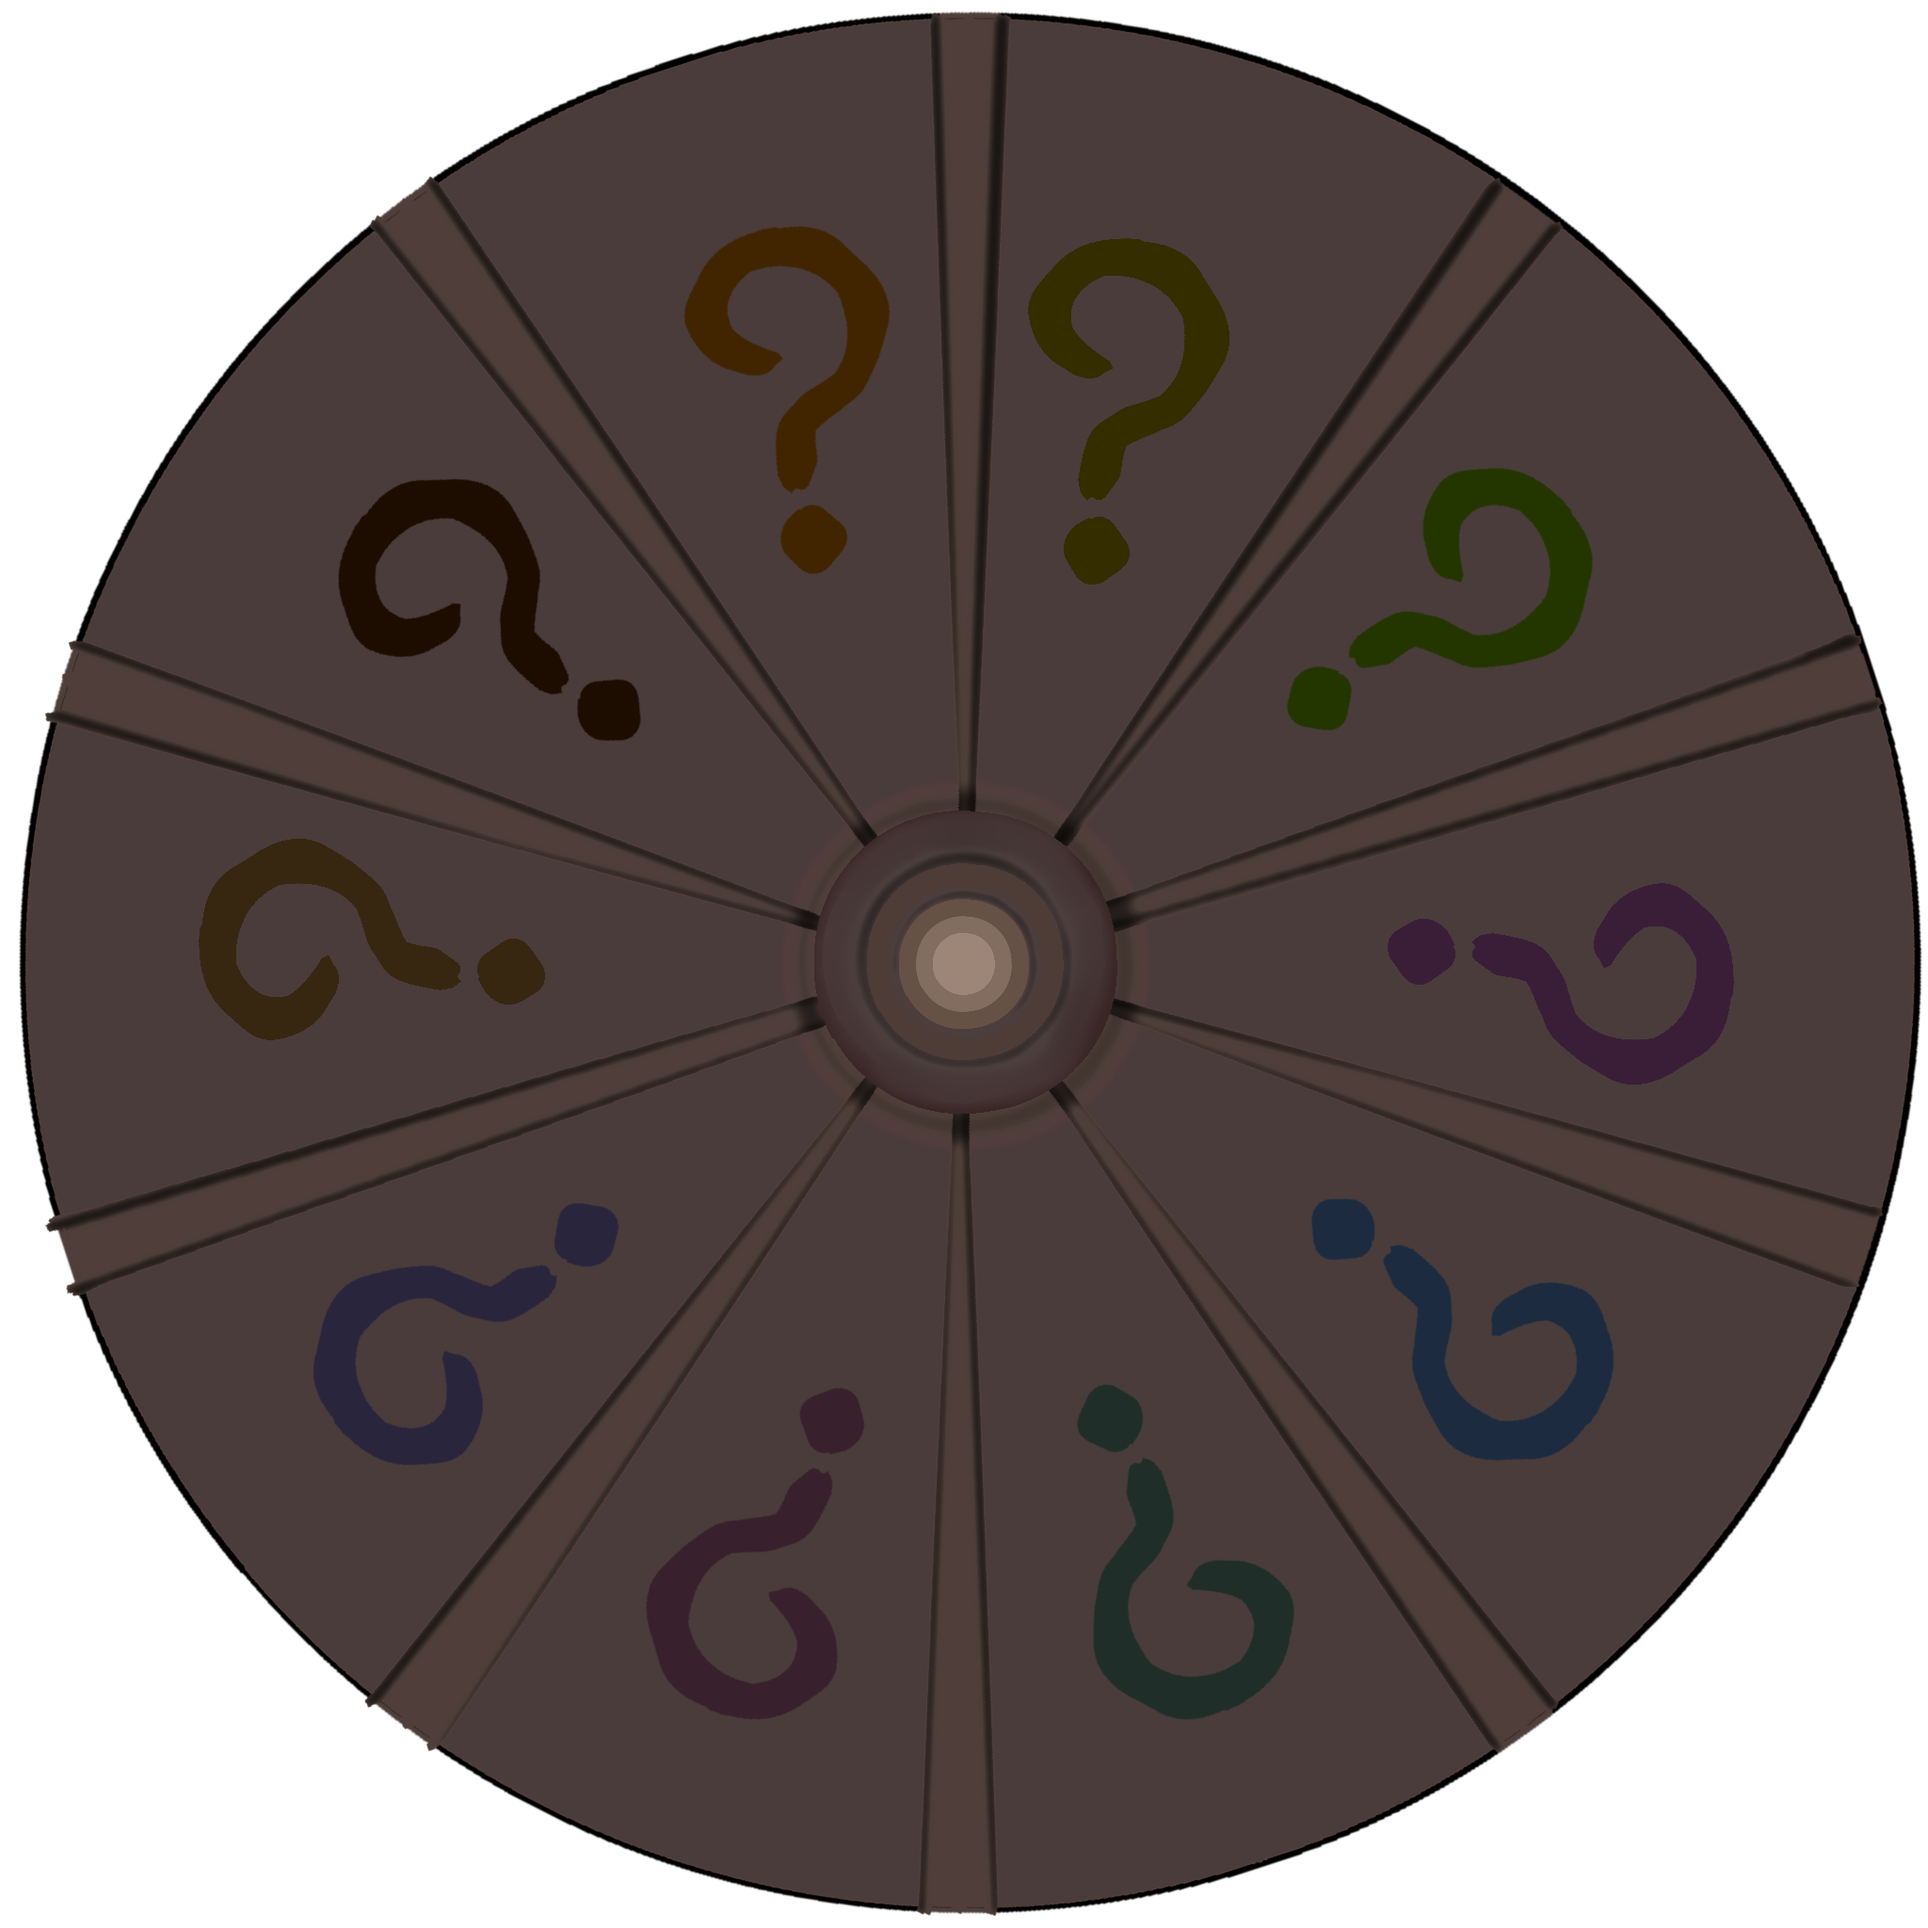
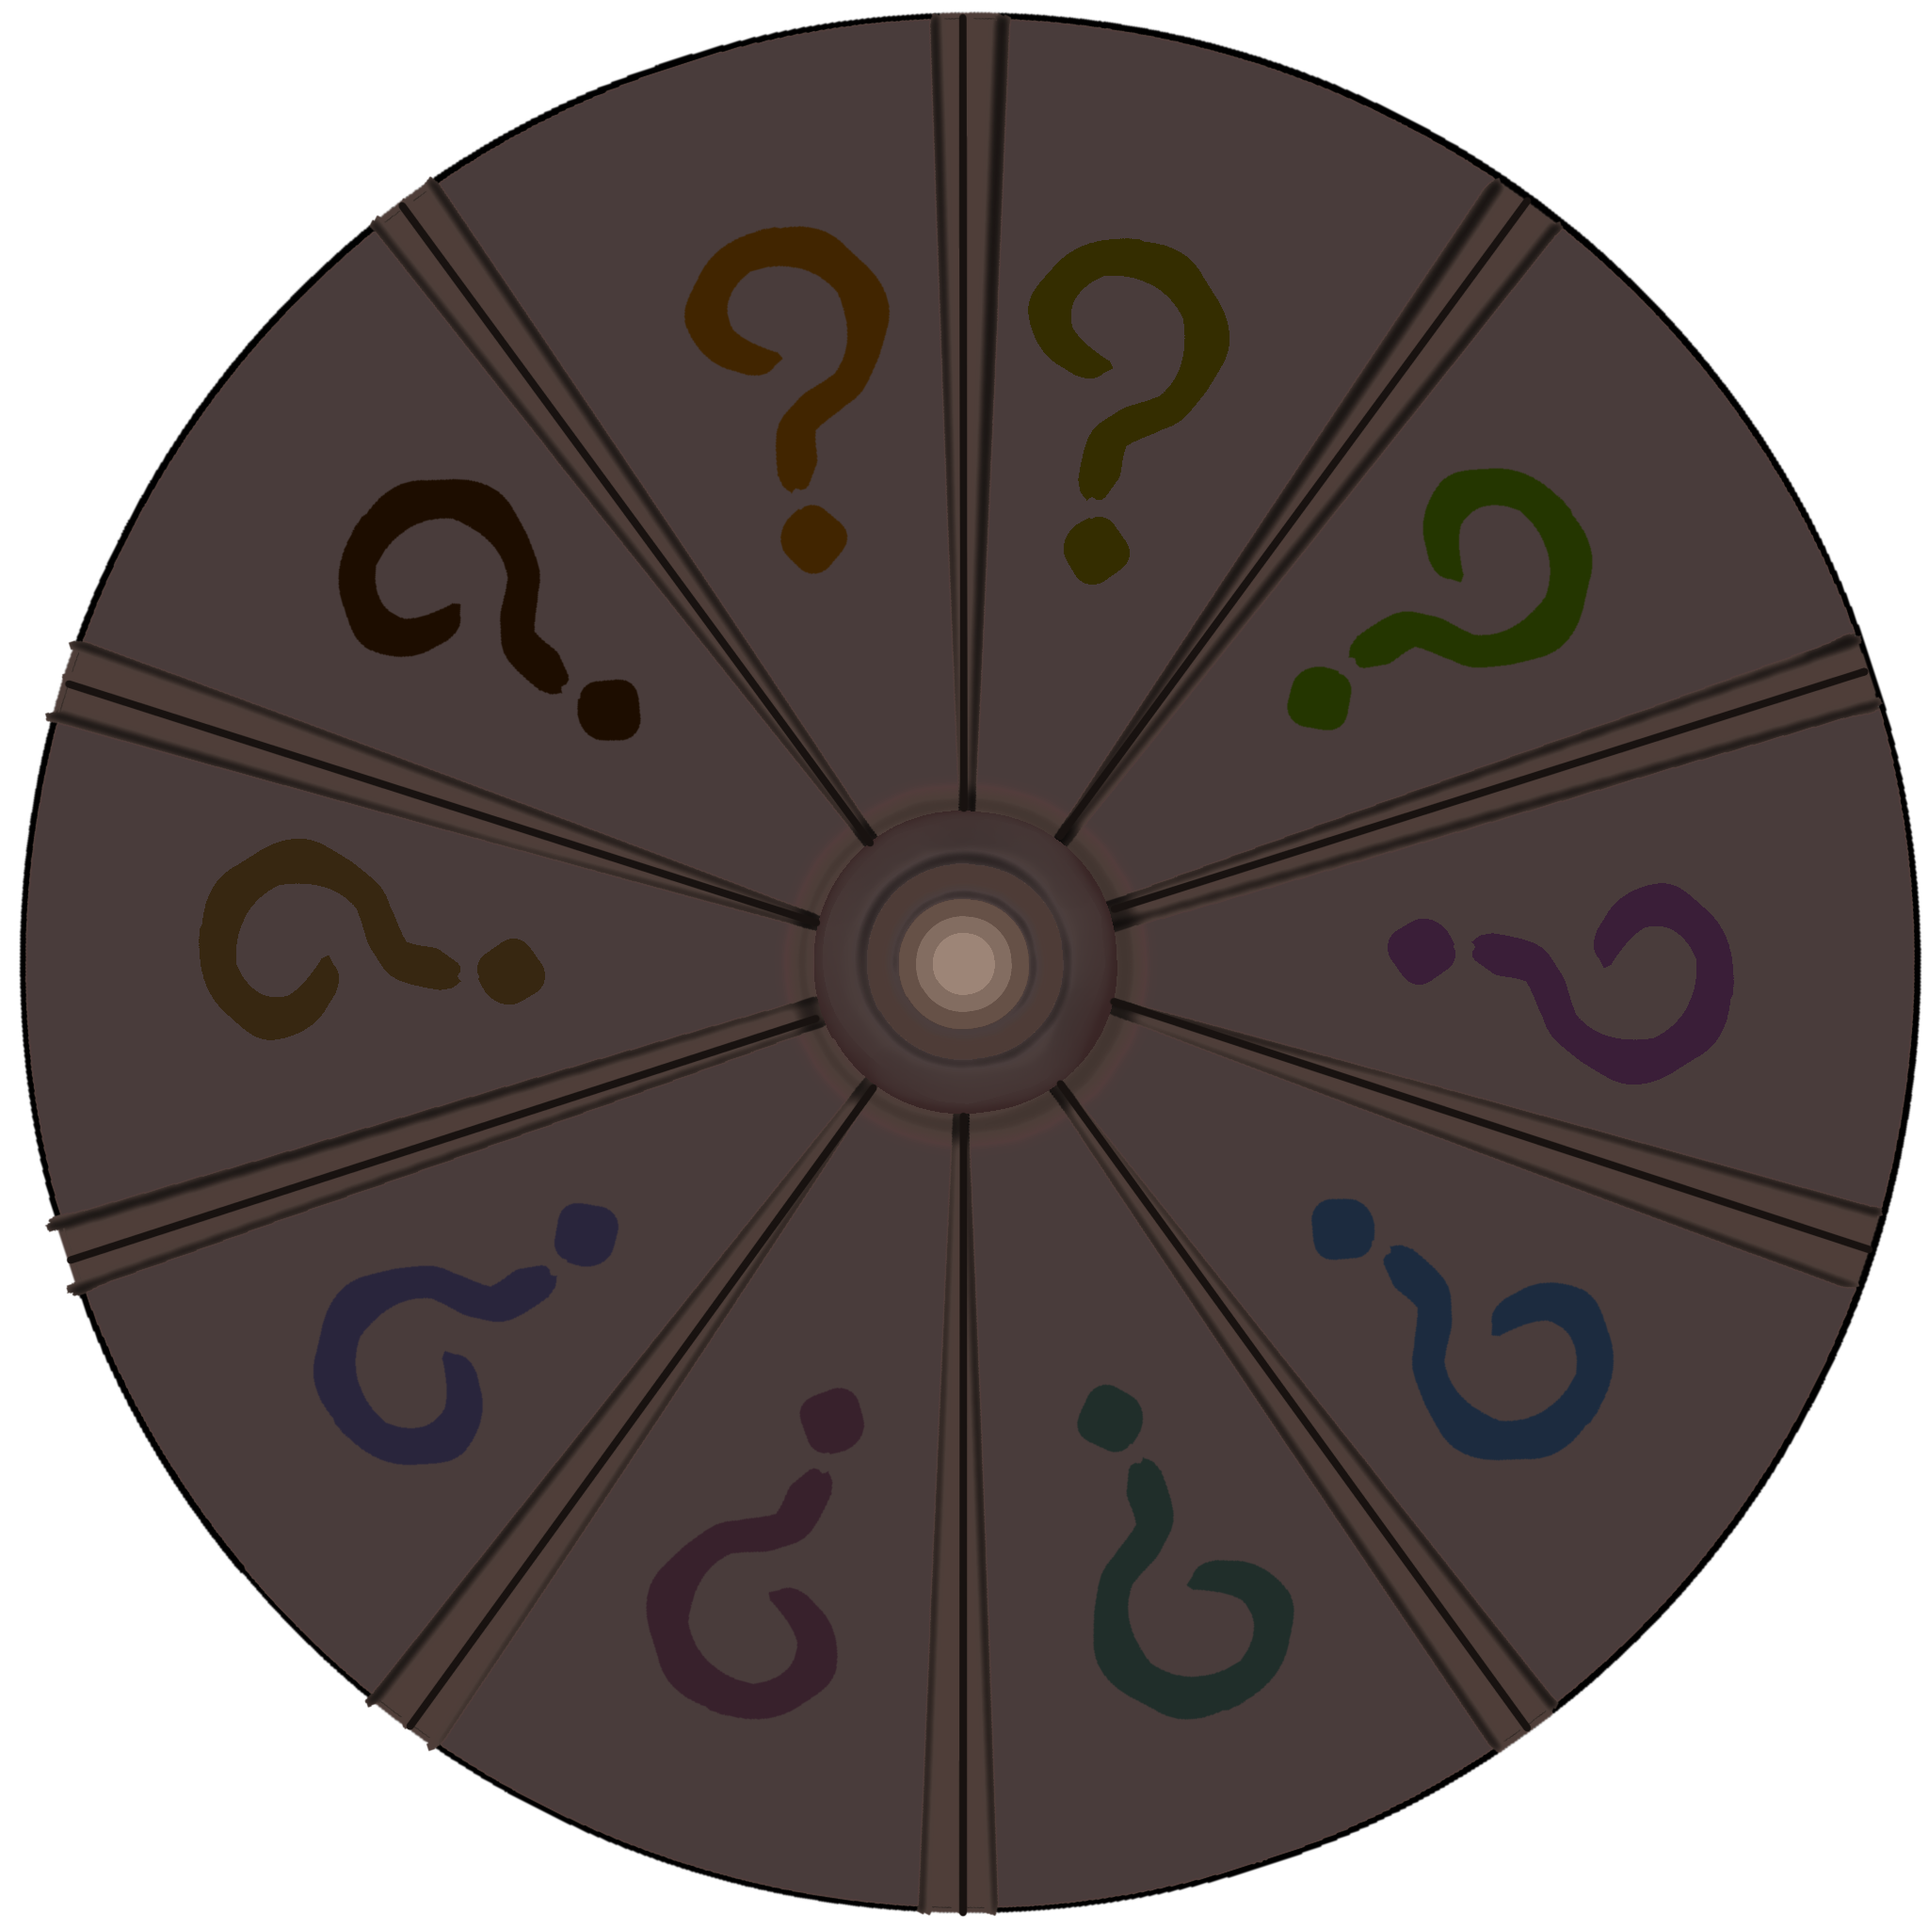
last version was bug ridden, fixed as much as i could...a lot

diff --git a/index.html b/index.html
@@ -693,14 +693,14 @@ function wheelMode() {
 
 
   if(gameState.mode === "Wheel"){
-    toolBox.updateTool.updateSceneImage('');
-    const wheelWrapper = document.createElement('div')
-    wheelWrapper.id = "wheelWrap"
-    const wheelImg = document.createElement('img')
-    wheelImg.id = "wheelImage"
-    wheelImg.src = "images/Wheel.png"
-    const pointerImg = document.createElement('img')
-    pointerImg.id = "wheelPointer"
+    toolBox.updateTool.updateSceneImage("images/Empty.png");
+    const wheelWrapper = document.createElement('div');
+    wheelWrapper.id = "wheelWrap";
+    const wheelImg = document.createElement('img');
+    wheelImg.id = "wheelImage";
+    wheelImg.src = "images/Wheel.png";
+    const pointerImg = document.createElement('img');
+    pointerImg.id = "wheelPointer";
     pointerImg.src = "images/Pointer.png"
     document.querySelector('#story-wrapper').appendChild(wheelWrapper);
     wheelWrapper.appendChild(wheelImg);
@@ -711,35 +711,24 @@ function wheelMode() {
 
   // make the wheel clickable
   const wheel = document.getElementById('wheelImage');
-  wheel.onclick = () => {
-    
-    setTimeout(() => {
-        wheelImg.classList.add('spin');
-      toolBox.minigameTool.spinWheel();
-      
-      wheelImg.style.setProperty('--final-angle', gameState.wheelSpinAngle + 'deg');
+  wheel.addEventListener('click', () => {
+    if (!gameState.world.wheelSpinable) return;
 
-      gameState.world.wheelSpinable = false;
+    toolBox.minigameTool.spinWheel();
 
-     
-    
+    let currentAngle = 0;
+    if (wheelImg.dataset.angle) {
+      currentAngle = Number(wheelImg.dataset.angle);
+    }
 
-    }, 50)
+    let totalRotation = currentAngle + gameState.wheelSpinAngle;
+    wheelImg.dataset.angle = totalRotation;
+    wheelImg.style.transform = 'rotate(' + totalRotation + 'deg)';
 
-
-setTimeout(() => {
-
-  wheelImg.addEventListener('animationend', () => {
+    setTimeout(function () {
       gameState.world.wheelSpinable = true;
-    });
-     
-
-
-}, 3000);
-  
-
-  
-  };
+    }, 5000);
+  });
 
   modeOutput.innerHTML = `
   <button id="exitWheel">Return</button>
@@ -994,7 +983,7 @@ function clearUI(){
   storyBox.innerText = '';
 }
 
-changeMode("Wheel");
+changeMode("Shop");
 
 </script>
 

diff --git a/style.css b/style.css
@@ -42,74 +42,59 @@ button:hover {
   gap: 20px;
   align-items: flex-start;
   position: relative;
+  height: 300px;
 }
 
 #sceneImage {
   rotate: 0;
-  transform: translateX(-325px);
-  width: 300px;       /* adjust as needed */
-  height: 300px;      /* or auto */
-  object-fit: cover;  /* keeps your art looking good */
+  width: 300px;
+  height: 300px;
+  object-fit: cover;
   transition: none;
   position: absolute;
-
+  left: 0;
+  top: 0;
+  transform: none;
 }
 
 #storyBox {
   position: absolute;
-  transform: translateX(75px);
+  left: 330px;
+  top: 0;
   width: 50%;
   min-height: 280px;
-
+  transform: none;
 }
 
 #wheelPointer {
   position: absolute;
   top: 0;
-  left: 0;
-  transform: translateX(130px);
-  width: 40px;   /* or whatever looks good */
+  left: 50%;
+  transform: translateX(-50%);
+  width: 40px;
   z-index: 2;
   pointer-events: none;
 }
-
-
 
 #wheelImage {
   position: absolute;
   top: 0;
   left: 0;
-  transform: translateX(-345px);
-  transform: translateY(0px);
   width: 300px;
   height: 300px;
   z-index: 1;
-}
-
-
-#wheelImage {
-  transition: transform 3s ease-out;
-
+  transform: rotate(0deg);
+  transform-origin: center center;
+  transition: transform 5s cubic-bezier(0.15, 0.85, 0.35, 1);
 }
 
 #wheelWrap {
-  position: relative;
-  transform: translateX(-325px);
+  position: absolute;
+  left: 0;
+  top: 0;
   width: 300px;
   height: 300px;
-}
-
-.spin {
-  animation: wheelSpin 5s cubic-bezier(0.15, 0.85, 0.35, 1) normal forwards;
-}
-
-
-
-@keyframes wheelSpin {
-  from {
-    transform: translate( 0, 0) rotate(0Deg);
-  }
-  to {
-    transform: translate( 0, 0) rotate(var(--final-angle));
-  }
+  pointer-events: auto;
+  transform: none;
+  z-index: 0;
 }
